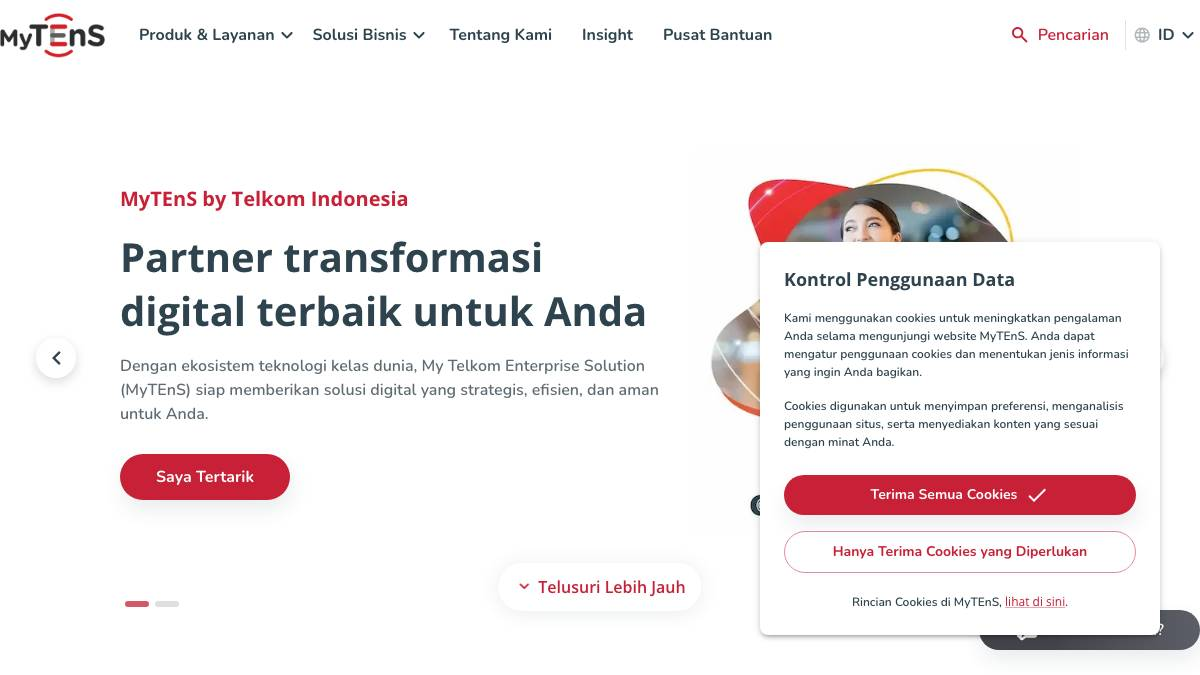
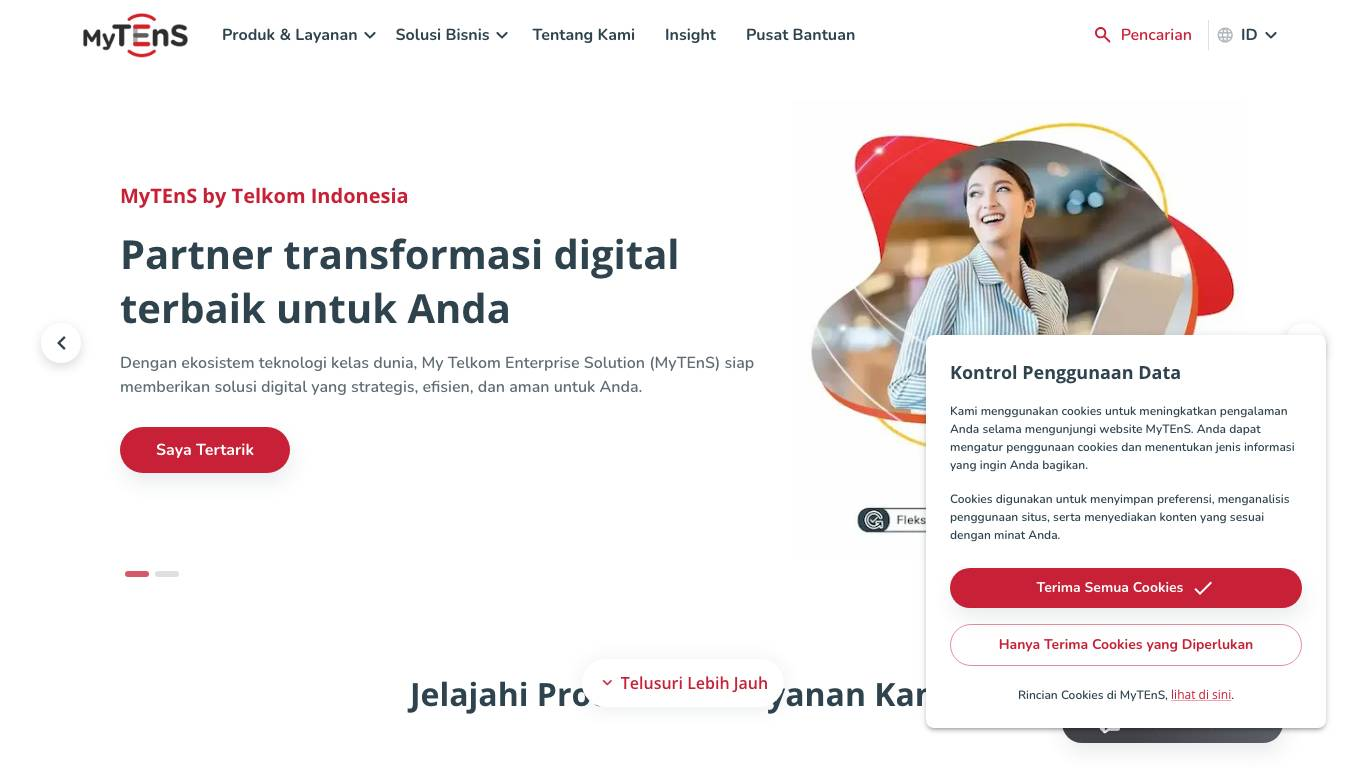
feat: update screenshot generation viewport size and add new project assets

diff --git a/scripts/generate-screenshots.ts b/scripts/generate-screenshots.ts
@@ -16,7 +16,6 @@ const main = async () => {
     fs.mkdirSync(outputDir, { recursive: true });
   }
 
-
   const browser = await chromium.launch();
 
   for (const project of PROJECTS) {
@@ -26,7 +25,7 @@ const main = async () => {
     const filePath = path.join(outputDir, `${slug}.jpg`);
 
     const page = await browser.newPage({
-      viewport: { width: 1200, height: 675 },
+      viewport: { width: 1366, height: 768 },
       deviceScaleFactor: 1,
     });
 

diff --git a/src/constants/projects.ts b/src/constants/projects.ts
@@ -30,7 +30,7 @@ export const PROJECTS: Project[] = [
     githubUrl: "https://github.com/mokletdev/mokletdev",
     subtitle: "Community Showcase",
     highlight: true,
-    imageUrl: "/projects/dev-moklet-org.jpg",
+    imageUrl: "/projects/dev-moklet-org.png",
   },
   {
     title: "timotiusmuliawan.com",
